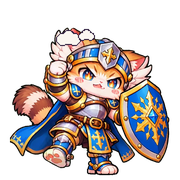
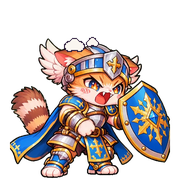
Angry emoji: use only the first second of the Kling clip
Video frames 1-24 played straight at real speed (minus 4-7, where the
face calms), 20 frames x 50 ms, 1 s x 4. Steam and the stomp dust
burst kept. 248 KB.

Claude-Session: https://claude.ai/code/session_01CqN5TM8CtnKZx6KMXb1z93

diff --git a/line-stickers/animated-emoji/19-angry/make_angry.py b/line-stickers/animated-emoji/19-angry/make_angry.py
@@ -1,23 +1,17 @@
-"""Angry emoji built around the stomp: the foot lifts and holds, slams down fast, the
-landing holds with a dust burst, then a short shouting part. Plus pixel-art steam."""
+"""Angry emoji from the first second of the Kling clip, played straight at real speed:
+foot raised and shouting, the stomp, then shouting. Plus pixel-art steam and a dust
+burst when the foot lands."""
 import sys, os
 import numpy as np
 from PIL import Image, ImageDraw
 SRC, OUT = sys.argv[1], sys.argv[2]            # folder of green-removed video frames (NNN.png), output folder
-W, LOOP_MS = 540, 2000                          # working canvas (3x of 180), one loop
+W, LOOP_MS = 540, 1000                          # working canvas (3x of 180), one loop
 INK, STEAM = (42, 26, 58, 255), (250, 246, 240, 255)
-# (video frame, ms). Video frames 8..26: foot up (8) -> landing (12) -> shouting (14..26).
-SHOT = ([(12, 90)] * 3                                       # landing, held for 3 frames while the dust bursts
-        + [(f, 95) for f in (14, 17, 20, 23, 26, 23, 20, 17, 14)]   # shouting and punching
-        + [(f, 75) for f in (11, 10, 9)]                     # foot lifts (wind-up)
-        + [(8, 300)]                                         # foot held high
-        + [(f, 30) for f in (9, 10, 11)])                    # slam down
-SEQ = [f for f, _ in SHOT]
-durs = [d for _, d in SHOT]
-slow = [k for k, d in enumerate(durs) if d > 30]             # stretch everything but the slam to fit the loop
-extra = LOOP_MS - sum(durs)
-for k in slow: durs[k] += extra * durs[k] // sum(durs[j] for j in slow)
-durs[0] += LOOP_MS - sum(durs)
+# Video frames 1-24 (the first second), minus 4-7 where the face calms down: 20 frames,
+# LINE's maximum, 50 ms each.
+SEQ = [1, 2, 3] + list(range(8, 25))
+durs = [LOOP_MS // len(SEQ)] * len(SEQ)
+LAND = SEQ.index(12)                            # the foot touches down
 FOOT = (55, 166)                                # landing foot on the 180 grid (from frame 12)
 box = (0, 30, 960, 946)                         # union bbox of the frames used
 s = 0.5
@@ -68,8 +62,9 @@ for k, i in enumerate(SEQ):
     hx, hy = map(round, heads[i])
     lo = Image.new('RGBA', (W//3, W//3), (0, 0, 0, 0)); g = ImageDraw.Draw(lo)
     for phase, dx, dy in ((0.0, -30, -10), (0.5, -12, -18)):  # two puffs, half a cycle apart
-        steam(g, hx+dx, hy+dy, (t / 500 + phase) % 1)            # by time: 4 puffs per loop each
-    if t < 420: dust(g, t / 420)                                  # the burst lasts 0.42 s after landing
+        steam(g, hx+dx, hy+dy, (t / 500 + phase) % 1)            # by time: 2 puffs per loop each
+    t_land = sum(durs[:LAND])
+    if 0 <= t - t_land < 420: dust(g, (t - t_land) / 420)          # the burst lasts 0.42 s after landing
     c.alpha_composite(lo.resize((W, W), Image.NEAREST)); out.append(c)
     t += durs[k]
 
@@ -85,6 +80,6 @@ def save(frs, path, durs, loop):
 f180 = [o.convert('RGBa').resize((180, 180), Image.LANCZOS).convert('RGBA') for o in out]
 for i, f in enumerate(f180): f.save(f"{OUT}/frames/{i+1:02d}.png")
 print('frames', SEQ); print('ms', durs)
-save(f180, f"{OUT}/angry.png", durs, 2)       # 2 s x 2 = 4 s
+save(f180, f"{OUT}/angry.png", durs, 4)       # 1 s x 4 = 4 s
 save([o.convert('RGBa').resize((360, 360), Image.LANCZOS).convert('RGBA') for o in out],
      f"{OUT}/preview-angry.png", durs, 0)
